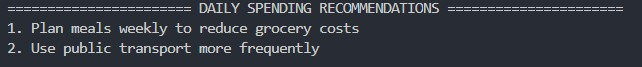
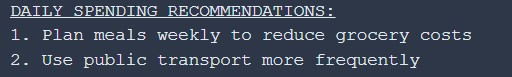
edit  readme testing and bugs parts

diff --git a/README.md b/README.md
@@ -341,7 +341,7 @@ The testing approach is as follows:
 2. Data validation and error handling testing
 3. Google Sheets integration testing
 
-<details><summary>See functionality testing</summary>
+See functionality testing
 File Loading and Transaction Processing
 
 1. I want to analyze my monthly spending from HSBC bank exports
@@ -384,19 +384,19 @@ File Loading and Transaction Processing
 
 | **Feature**   | **Action**                    | **Expected Result**          | **Actual Result** |
 | ------------- | ----------------------------- | ---------------------------- | ----------------- |
-| Income calculation | Process multiple income transactions | Total income correctly summed | Works as expected |
+| Income calculation | Process income transactions | Total income correctly summed | Works as expected |
 | Expense calculation | Process multiple expense transactions | Total expenses correctly summed | Works as expected |
 | Savings calculation | Calculate savings from income and expenses | Savings = Income - Expenses | Works as expected |
-| Daily averages | Calculate daily avirage expenses | Correct daily average calculation | Works as expected |
+| Daily averages | Calculate daily average expenses | Correct daily average calculation | Works as expected |
 
-<details><summary>Screenshot</summary>
+<details><summary>Month Financial Overview</summary>
 <img src="docs/testing/month_financial_overview.jpg">
 </details>
 <details><summary>Screenshot</summary>
 <img src="docs/testing/daily_spending_analysis.jpg">
 </details>
 <details><summary>Screenshot</summary>
-<img src="docs/testing/terminal_expenses_categorised.jpg">
+<img src="docs/testing/terminal_expense_categories.jpg">
 </details>
 
 4. I want to visualize my finances with clear charts and graphs
@@ -408,10 +408,10 @@ File Loading and Transaction Processing
 | Daily norms comparison | Compare spending vs daily norms | Visual comparison with arrows and differences | Works as expected |
 
 <details><summary>Screenshot</summary>
-<img src="docs/testing/month_financial_overview__.jpg">
+<img src="docs/testing/month_financial_overview.jpg">
 </details>
 <details><summary>Screenshot</summary>
-<img src="docs/testing/terminal_expenses_categorised.jpg">
+<img src="docs/testing/terminal_expense_categories.jpg">
 </details>
 <details><summary>Screenshot</summary>
 <img src="docs/testing/daily_spending_analysis.jpg">
@@ -426,44 +426,41 @@ File Loading and Transaction Processing
 | Fallback recommendations | Handle cases with no specific issues | General money-saving tips	 | Works as expected |
 
 <details><summary>Screenshots</summary>
-<img src="docs//testing/daily_spending_recommendations.jpg">
+<img src="docs/testing/daily_spending_recommendations.jpg">
 </details>
 <details><summary>Screenshots</summary>
-<img src="docs//testing/daily_fallback_recommendations.jpg">
+<img src="docs/testing/daily_fallback_recommendations.jpg">
 </details>
 
 6. I want to export my data to Google Sheets automatically
 
 | **Feature**   | **Action**                    | **Expected Result**          | **Actual Result** |
 | ------------- | ----------------------------- | ---------------------------- | ----------------- |
-| Worksheet creation | Process data for new month	 | New worksheet created automatically | Works as expected |
+| Month Worksheet update | Process data for new month	 | New worksheet created automatically | Works as expected |
 | Data formatting | Export transactions to Google Sheets	 | Proper currency and percentage formatting | Works as expected |
 | Summary update | Update monthly data in SUMMARY sheet	 | Data written to SUMMARY sheet with proper columns | Works as expected |
 | Error handling | Simulate API connectivity issues	 | Graceful error messages, continued local operation | Works as expected |
 
-<details><summary>Screenshots</summary>
-<img src="docs/testing/new_month_sheet_created_notification.jpg">
-</details>
-<details><summary>Screenshots</summary>
+<details><summary>Month sheet created/updated and formated</summary>
 <img src="docs/testing/new_month_sheet_created.jpg">
 </details>
-<details><summary>Screenshots</summary>
+<details><summary>Summary worksheet updated and formated</summary>
 <img src="docs/testing/summary_worksheet_update.jpg">
 </details>
-<details><summary>Screenshots</summary>
-<img src="docs/testing/file_not_found_error.jpg">
+<details><summary>/No valid data found error</summary>
+<img src="docs/testing/no_valid_data_found_error.jpg">
 </details>
 
 7. I want the program to handle errors gracefully
 
 | **Feature**   | **Action**                    | **Expected Result**          | **Actual Result** |
 | ------------- | ----------------------------- | ---------------------------- | ----------------- |
-| Invalid user input | Enter non-existent month  | File not found error handled gracefully | Works as expected |
+| Invalid user input | Enter non-existent month  | No valid data found error handled gracefully | Works as expected |
 | Division by zero | Process data with no income  | Handled with default values (0) | Works as expected |
 | API rate limiting | Make multiple rapid API requests  | Sleep intervals prevent rate limiting | Works as expected |
 
-<details><summary>Screenshot</summary>
-<img src="docs/testing/file_not_found_error.jpg">
+<details><summary>No valid data found error handled</summary>
+<img src="docs/testing/no_valid_data_found_error.jpg">
 </details>
 
 8. I want my exported data to be professionally formatted
@@ -475,10 +472,10 @@ File Loading and Transaction Processing
 | Financial summary | Update SUMMARY sheet with totals  | Totals and percentages calculated correctly | Works as expected |
 | Format preservation | Apply cell formatting in Google Sheets  | Currency, percentages, colors maintained | Works as expected |
 
-<details><summary>Screenshots</summary>
+<details><summary>Income Detection Expense Categories</summary>
 <img src="docs/testing/income_detection-expense_categories.JPG">
 </details>
-<details><summary>Screenshots</summary>
+<details><summary>Summary Worksheet Update</summary>
 <img src="docs/testing/summary_worksheet_update.JPG">
 </details>
 
@@ -487,14 +484,14 @@ File Loading and Transaction Processing
 | **Feature**   | **Action**                    | **Expected Result**          | **Actual Result** |
 | ------------- | ----------------------------- | ---------------------------- | ----------------- |
 | Progress feedback | Monitor long operations  | Status messages during processing | Works as expected |
-| Visual appeal | View terminal output  | Clean formatting with centered headers | Works as expected |
-| Recommendation clarity | Generate financial advice	  | Specific, measurable suggestions | Works as expected |
+| Visual appeal | View terminal output  | Clean formatting with left-justified headers | Works as expected |
+| Recommendation clarity | Generate financial advice  | Specific, measurable suggestions | Works as expected |
 
-<details><summary>Screenshots</summary>
-<img src="docs/testing/loading_file_message.jpg">
+<details><summary>/Processing Financial Data, Google Sheet Update in Progress</summary>
+<img src="docs/testing/google_sheet_update_in_progress.jpg">
 </details>
 <details><summary>Screenshots</summary>
-<img src="docs/testing/worksheet_found_updating_message.jpg">
+<img src="docs/testing/using_file_name_message.jpg">
 </details>
 <details><summary>Screenshots</summary>
 <img src="docs/testing/summary_worksheet_update.jpg">
@@ -503,10 +500,13 @@ File Loading and Transaction Processing
 <img src="docs/testing/new_month_sheet_created.jpg">
 </details>
 <details><summary>Screenshots</summary>
-<img src="docs/testing/terminal_recommendations.jpg">
+<img src="docs/testing/daily_spending_recommendations.jpg">
 </details>
 <details><summary>Screenshots</summary>
 <img src="docs/testing/worksheet_daily_spending_recommendations.jpg">
+</details>
+<details><summary>Screenshots</summary>
+<img src="docs/testing/analylis_completed_worksheets_updated_successfully.jpg">
 </details>
 
 10. I want to track my finances across multiple months
@@ -517,15 +517,13 @@ File Loading and Transaction Processing
 | Column management | Organize SUMMARY sheet data  | New columns created for new months | Works as expected |
 | Data separation | Handle monthly data  | Isolation between different months' data | Works as expected |
 
-<details><summary>Screenshots</summary>
+<details><summary>Summary Worksheet Update</summary>
 <img src="docs/testing/summary_worksheet_update.jpg">
 </details>
-<details><summary>Screenshots</summary>
-<img src="docs/testing/loading_file_message.jpg">
+<details><summary>Using File Name Message</summary>
+<img src="docs/testing/using_file_name_message.jpg">
 </details>
-<details><summary>Screenshots</summary>
-<img src="docs/testing/normalization_file_name.jpg">
-</details>
+
 
 Test Data Used:
 - Sample HSBC CSV files for multiple months
@@ -572,11 +570,6 @@ The application meets all functional requirements and provides valuable financia
 - Share the sheet with the service account email from your credentials `creds.json` file, giving it editor permissions.
 - User stories covered: 9
 
-#### Credits
-- HSBC for CSV export format
-- Google for Sheets API documentation
-- Python community for extensive library support
-
 
 ## Validation
 
@@ -598,34 +591,74 @@ The application meets all functional requirements and provides valuable financia
 
 | **Bug** | **Fix** |
 | ------- | ------- |
-| When selecting 'go back to main menu' option after the game has finished, the game title was not displayed | Correct the function's indentation |
-| When selecting a correct menu option after a few wrong numeric inputs the relevant game option was not called | Move the while loop at the top within the function |
-| Underscores within the game title were not displayed after deployment to Render portal | Changed color settings for yellow & red |
-| Gradient background color does not take up the full screen size | Add background-attachment property |
-| Players names input values are not displayed in the game – instead of name a “‘Player1’’s / ‘Player2’’s move.” is shown | Reassign a value of player1name & player2name to the indexed-0 value (name) input by the user in ‘create_new_players’ function |
-| Users input data was recorded in the same row in four columns instead of 2 separate rows | Created a list of players and while loop inside the 'register_new_players' function for Google Spreadsheet update separately for two players |
-| There were quite a few errors and warnings related to exceeded number of characters in line, whitespace within a blank line, trailing white spaces or missing white spaces around operators | Split the comments or print functions into two separate rows maintaining correct indentation. Followed a guidance within pep8 online tool and corrected all warnings and errors |
+|   Google Sheets timeout errors during large data uploads   | Implemented batch processing with 5-second delays between API calls and reduced batch size to 5 rows |
+| Status message not displaying during file processing | Added JavaScript event listeners to show/hide status elements and fixed CSS display properties |
+| CSV parsing errors with special characters and encoding | Added proper UTF-8 encoding handling and error-resistant line parsing with try-catch blocks |
+| Heroku deployment issues with temporary file storage | Implemented proper tempfile cleanup using shutil and automatic directory removal after processing |
+| Google API authentication failures in production | Created dual credential handling system for local development vs Heroku environment variables |
+| Month column detection failures in SUMMARY sheet | Enhanced header parsing logic with normalization and fallback empty column detection |
+| Percentage formatting errors in Google Sheets | Added explicit number formatting with PERCENT pattern and center alignment for percentage columns |
+| File upload validation issues | Implemented secure filename handling and proper file extension validation using Werkzeug |
+| Concurrent access issues with Google Sheets | Added threading for asynchronous operations to prevent blocking the main application thread |
+| Memory leaks with large CSV files | Optimized data processing with simplified datasets for large files and proper resource cleanup |
 
 ## Deployment
 
-### Render
-This application has been deployed from GitHub to Render by following the steps:
+### Heroku
+This application has been deployed from GitHub to Heroku by following the steps:
 
-1. Create or log in to your account at render.com
-2. Make sure you have connected your GitHub account to Render.com - follow the steps to Get Started and Sign up for Render. Click “New +” and select “Web Service”, on the right of the page, select “+ Connect account” for GitHub, ensure All repositories is selected and click “Install”
-4. Web service creation: Click “New +” and then “Web Service”. Search for relevant repo and click “Connect”.
-5. Settings: the web service's configuration settings are required to ensure the application is configured correctly. Add a Setting Name, leave Root Directory blank, add Environment 'Python3', Region (The physical location of the server hosting the web service), Branch - main
-6. Set the Build Command:
-    ```
-    pip install -r requirements.txt && npm install
-    ```
-7. Set the Start Command
-    ```
-    node index.js
-    ```
-8. Set up Environment Variables: Scroll down and click “Advanced” and “Add Environment Variable”. Add a key 'PORT' and value of '8000' and 'PYTHON_VERSION' with value of 3.10.7.
-9. Click “Add Secret File” and add a Filename 'creds.json' and file content.
-10. Click “Create Web Service” and wait for the project to build. First, the build is initiated. Then the build and deployment processes are carried out. Finally, the application is deployed and ready for public viewing.
+1. Heroku App Creation
+- Created a new Heroku application using the Heroku CLI or web dashboard
+- Set the application name to match the project requirements
+
+2. Environment Configuration
+Configured the following environment variables in Heroku:
+- GOOGLE_SERVICE_ACCOUNT_JSON: Added the complete Google Service Account JSON credentials for Google Sheets API access
+- PORT: Set to allow Heroku to assign the appropriate port dynamically
+
+3. Buildpack Setup
+- Added the Python buildpack to handle Python application deployment
+- Verified buildpack compatibility with the application requirements
+
+4. Procfile Configuration
+Created a Procfile with the following content:
+
+text
+web: python run.py
+This specifies the command to start the web application process
+
+5. Requirements File
+Maintained an updated requirements.txt file with all necessary dependencies:
+- Flask
+- gspread
+- google-auth
+- gspread-formatting
+- Werkzeug
+
+6. GitHub Integration
+- Connected the GitHub repository to Heroku for automatic deployments
+- Enabled automatic deploys from the main branch
+- Set up deployment hooks for continuous integration
+
+7. Deployment Process
+- Pushed code to the main GitHub branch triggered automatic deployment to Heroku
+- Monitored build logs through Heroku's dashboard for any deployment issues
+- Verified successful deployment by checking application status
+
+8. Post-Deployment Verification
+8.1 Tested the live application functionality:
+- File upload capability
+- Google Sheets integration
+- Financial analysis processing
+- Response time and performance
+
+8.2 Verified that environment variables were properly loaded
+8.3 Confirmed that all third-party API connections were functioning correctly
+
+9. Monitoring and Maintenance
+- Set up Heroku logs for ongoing monitoring
+- Configured error tracking and performance monitoring
+- Established a process for regular updates and maintenance
 
 
 ### Forking the GitHub Repository
@@ -646,24 +679,26 @@ This application has been deployed from GitHub to Render by following the steps:
 
 ## Credits
 
-### Images
-- [Flaticon](https://www.flaticon.com/free-icon/connect_1707222) was used for the website favicon
+- Code Institute - for git template IDE and "Love Sandwiches - Essentials Project" which helped me with connecting the Google Spreadsheet to my project
 
-### Code
-- [ASCII Art Generator](http://patorjk.com/software/taag/) was used to create game title
-- Code Institute - for git template IDE and "Love Sandwiches - Essentials Project" which helped me with connecting the Google Spreadsheet to my project.
-- [ColorSpace](https://mycolor.space/gradient) was used to create a gradient button and background effect
-- How to install a Python module, eg. [email validation](https://pypi.org/project/email-validator/Installing)
-- [gspread documentation](https://docs.gspread.org/en/latest/user-guide.html) explained how to obtain a specific value from the google spreadsheet
-- Instructions how to print colored text from [this](https://ozzmaker.com/add-colour-to-text-in-python/) and [this](https://stackabuse.com/how-to-print-colored-text-in-python/) sources
-- [Stack overflow](https://stackoverflow.com/questions/20302331/typing-effect-in-python) helped me create typing effect in games rules
-- [Stack overflow](https://stackoverflow.com/questions/517970/how-to-clear-the-interpreter-console) code used to clear the terminal console
-- Youtube video on [Unit Test in Python](https://www.youtube.com/watch?v=1Lfv5tUGsn8) made by Socratica was very helpful to understand the concept of unit tesing
-- Youtube tutorial [“Python Connect 4 Tutorial”](https://www.youtube.com/watch?v=gvP0gNSO17k&t=429s) made by [Spencer Lepine](https://www.youtube.com/channel/UCBL6vAHJZqUlyJp-rcFU55Q) - I used a part of Spencer's code for display of the game board, moves of alternative players and saving last move's coordinates on the board
-- Youtube tutorial [“Creating a Connect 4 Game in Python”](https://www.youtube.com/watch?v=Bk2ny_aeG-Y) made by [“Painless Programming”](https://www.youtube.com/channel/UC8ck1Yks7yP33XInXw5GZIw) -  inspired me to create a schemat for winning move logic
-<details><summary>See winning move schemat</summary>
-<img src="docs/winning-move- logic-schemat.jpg">
-</details>
+- [gspread documentation](https://docs.gspread.org/en/latest/user-guide.html) - explained how to work with the Google Spreadsheet API for reading and writing data
+
+- [Flask documentation](https://flask.palletsprojects.com/) - helped me understand how to create web applications, handle file uploads, and serve dynamic templates
+
+- [Google Auth documentation](https://google-auth.readthedocs.io/) - provided guidance on setting up service account authentication for Google APIs
+
+- [Stack Overflow](https://stackoverflow.com/) - various threads helped me solve specific implementation challenges throughout the development process
+
+- [Python CSV documentation](https://docs.python.org/3/library/csv.html) - guided me on proper CSV file parsing techniques for financial transaction data
+
+- [Werkzeug documentation](https://werkzeug.palletsprojects.com/) - helped me implement secure filename handling for uploaded files
+
+- [gspread-formatting documentation](https://gspread-formatting.readthedocs.io/) - provided examples for advanced spreadsheet formatting and styling
+
+- [Python datetime documentation](https://docs.python.org/3/library/datetime.html) - assisted with date parsing and formatting for transaction processing
+
+- [Heroku documentation](https://devcenter.heroku.com/) - guided me through the deployment process and environment configuration
+
 
 ## Acknowledgements
 I would like to thank everyone who supported me in the development of this project:
